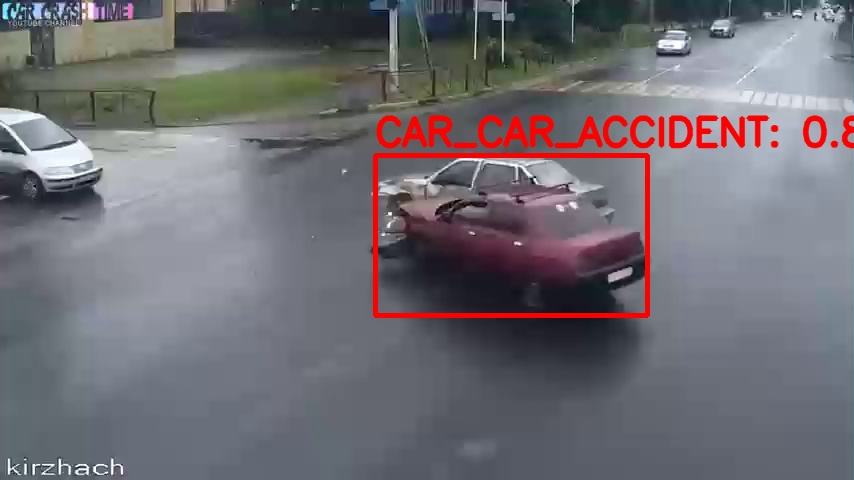
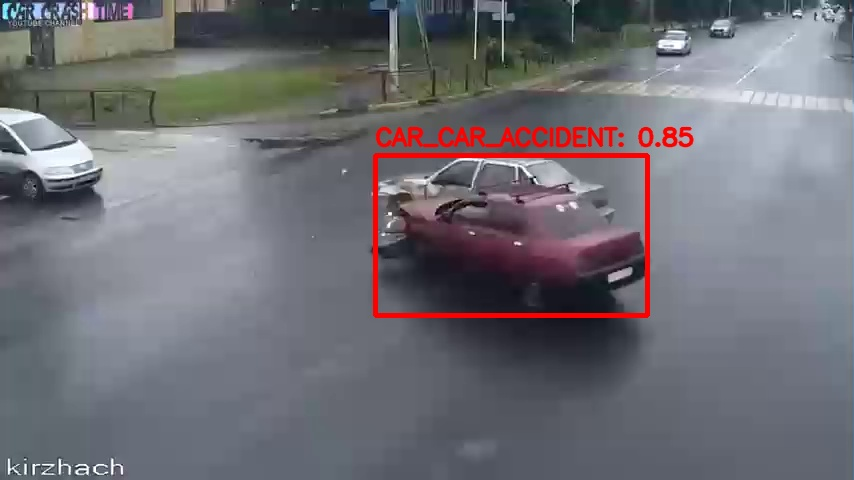
minor changes

Changed region(s): [[0.4262, 0.2188, 1.0, 0.3125]]

diff --git a/src/pipeline/predict_pipeline.py b/src/pipeline/predict_pipeline.py
@@ -38,14 +38,14 @@ class PredictionPipeline:
                         if score > threshold:
                             if class_id == 0 or class_id == 4 or class_id == 9:
                                 cv2.rectangle(frame, (int(x1), int(y1)), (int(x2), int(y2)), (255, 255, 0), 4)
-                                cv2.putText(frame, results.names[int(class_id)].upper(), (int(x1), int(y1 - 10)),cv2.FONT_HERSHEY_SIMPLEX, 1.3, (255, 255, 0), 3, cv2.LINE_AA)
+                                cv2.putText(frame, results.names[int(class_id)].upper(), (int(x1), int(y1 - 10)),cv2.FONT_HERSHEY_SIMPLEX, 0.8, (255, 255, 0), 2, cv2.LINE_AA)
                                 
                             else:
                                 logging.info("Accident detected")
                                 cv2.rectangle(frame, (int(x1), int(y1)), (int(x2), int(y2)), (0, 0, 255), 4)
 
                                 cv2.putText(frame, display_text, (int(x1), int(y1 - 10)),
-                                        cv2.FONT_HERSHEY_SIMPLEX, 1.3, (0, 0, 255), 3, cv2.LINE_AA)
+                                        cv2.FONT_HERSHEY_SIMPLEX, 0.8, (0, 0, 255), 2, cv2.LINE_AA)
                                 
                                 timestamp = cap.get(cv2.CAP_PROP_POS_MSEC)
                                 timestamp_seconds = timestamp / 1000  # Convert to seconds  
@@ -66,7 +66,7 @@ class PredictionPipeline:
             raise CustomException(e,sys)
         
 
-if __name__ == "__main__":
-    prediction_obj = PredictionPipeline()
-    print(prediction_obj.predict('static/uploads/Demo.mp4'))
+# if __name__ == "__main__":
+#     prediction_obj = PredictionPipeline()
+#     print(prediction_obj.predict('static/uploads/Demo.mp4'))
 # success    
